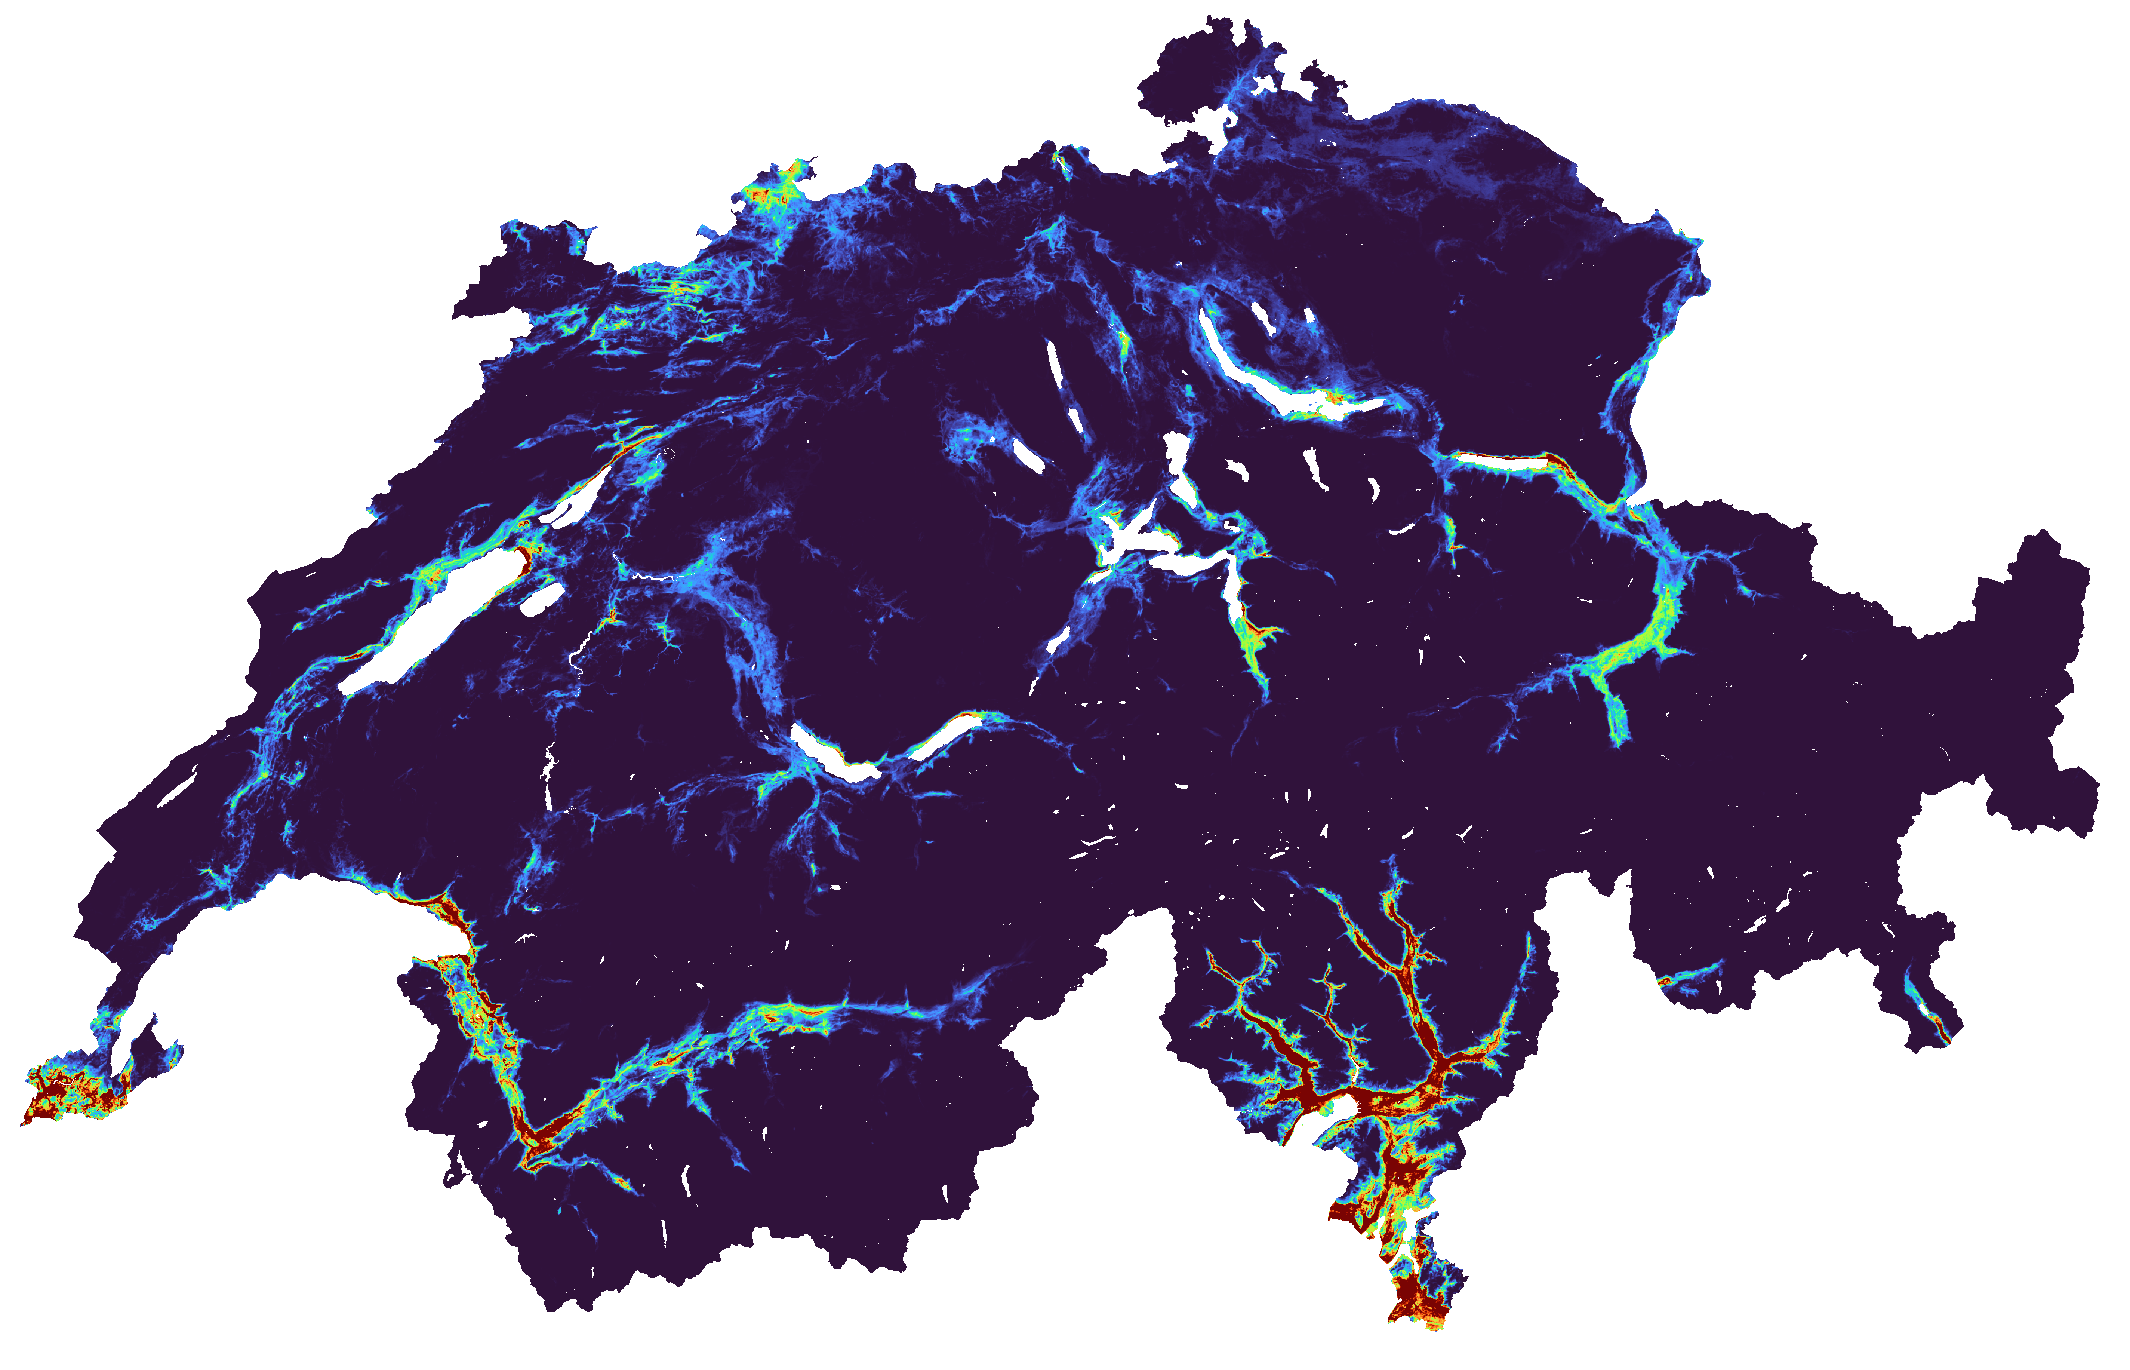
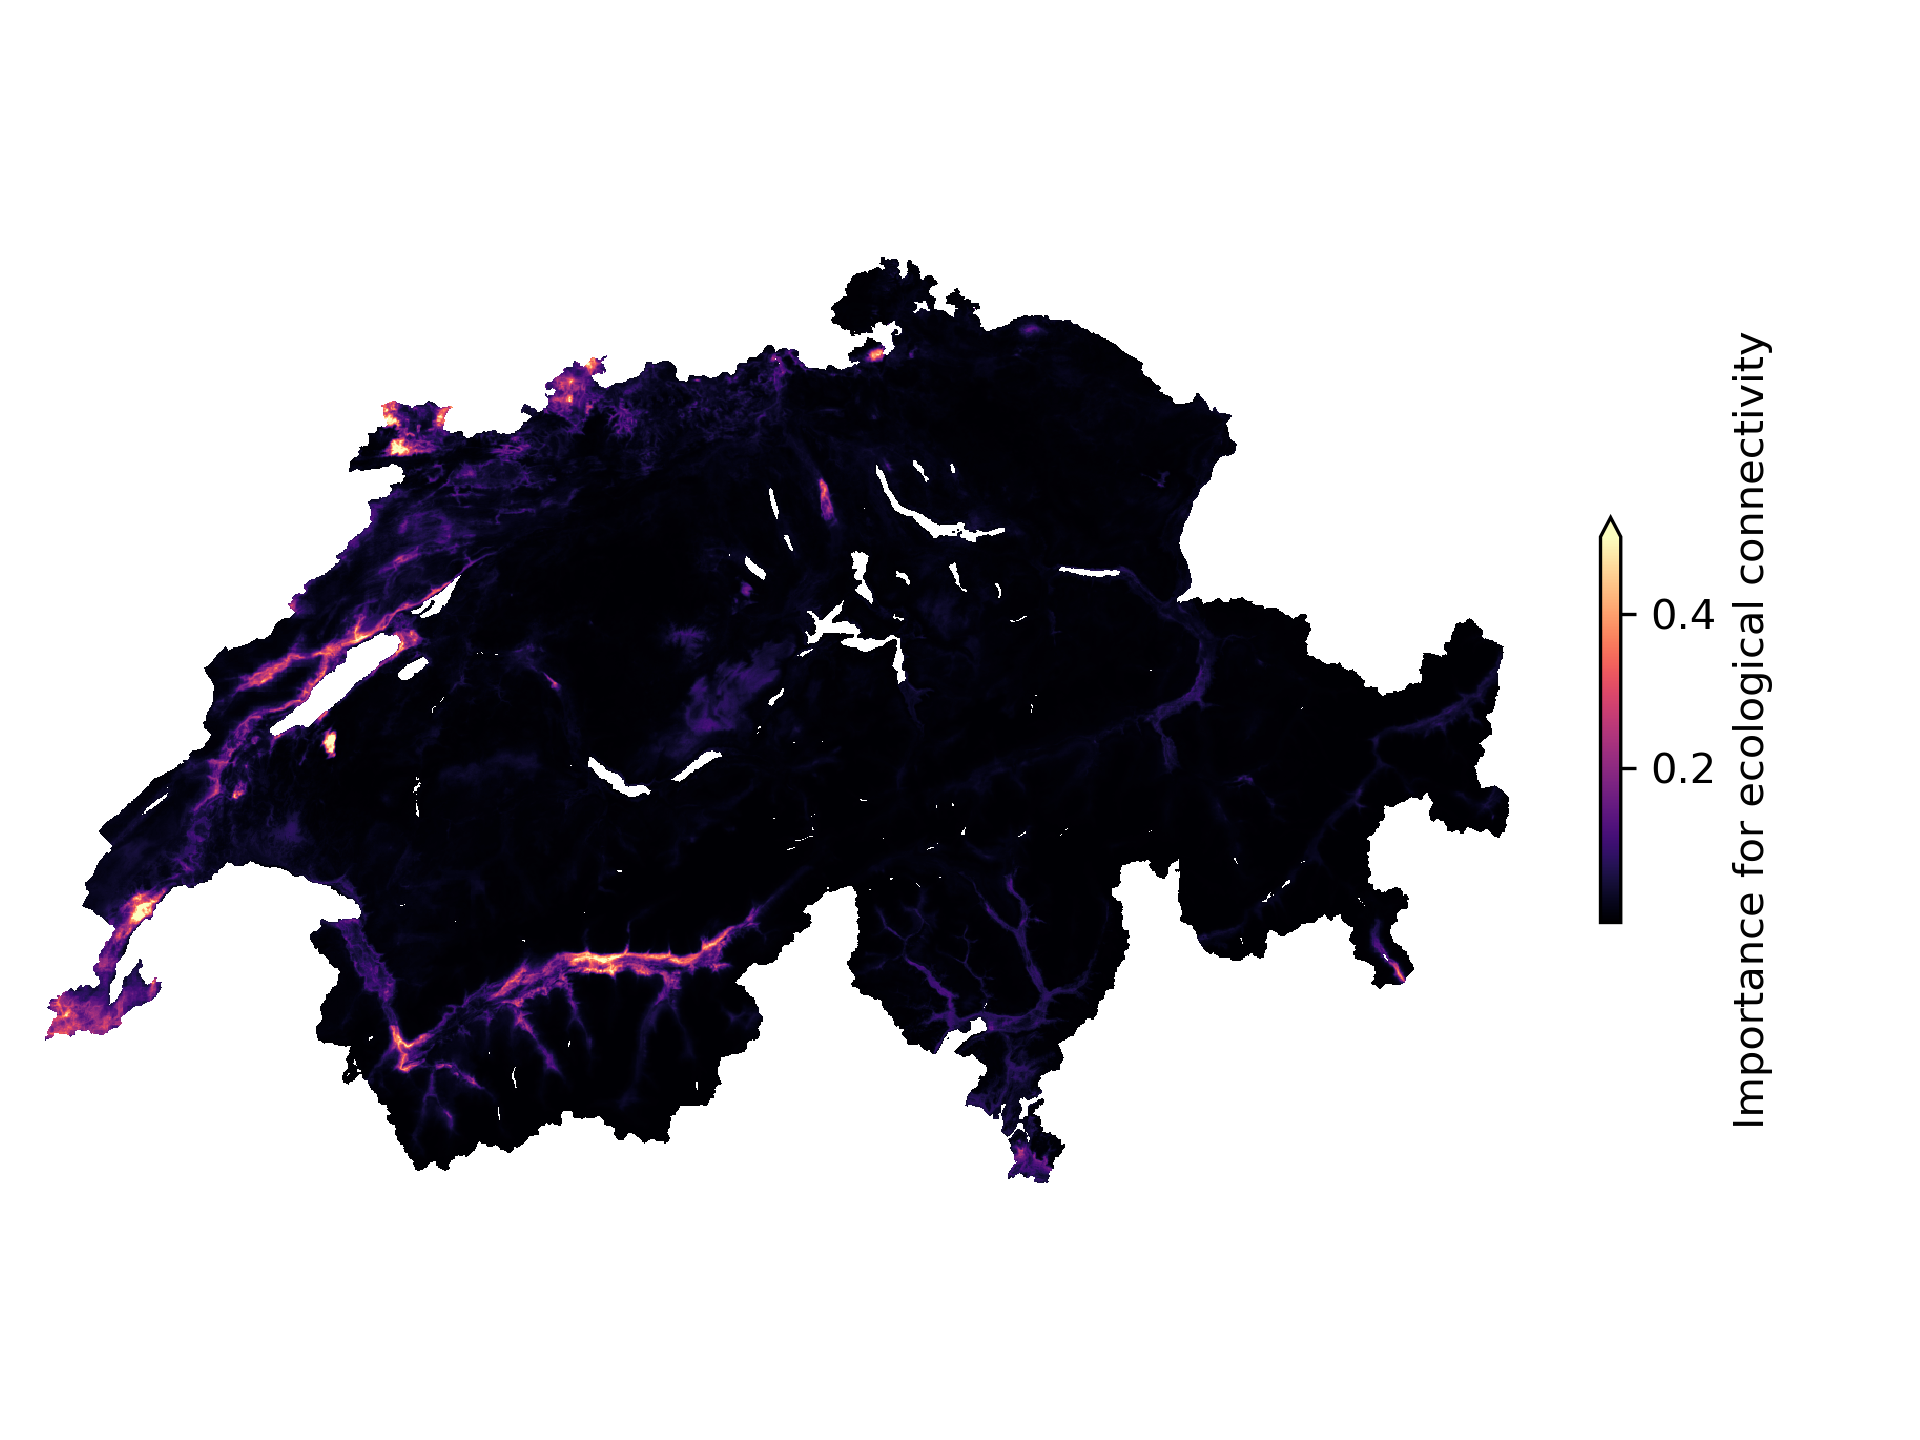
revised docu

diff --git a/python/biodiv_layer/group_summed_elasticities.py b/python/biodiv_layer/group_summed_elasticities.py
@@ -1,3 +1,10 @@
+# Calculate the overall group-summed elasticity for multiple taxonomic groups,
+# excluding fishes, based on per-group TIF files. The function reads and sums
+# "elasticity_quality" and optionally "elasticity_permeability" for each group,
+# averages them, and ultimately scales the final summed elasticity values from 0
+# to 1.
+
+
 import logging
 import sys
 from pathlib import Path
@@ -11,12 +18,20 @@ logger = logging.getLogger(__name__)
 
 import sys
 sys.path.append(str(Path(__file__).parent / Path("../src/")))
-from preprocessing import GROUP_INFO
+from group_preprocessing import GROUP_INFO
 
 def calculate_summed_elasticities(config, base_path):
+    """
+    Calculate the overall group-summed elasticity for multiple taxonomic groups, 
+    excluding fishes, based on per-group TIF files. The function reads and sums 
+    "elasticity_quality" and optionally "elasticity_permeability" for each group, 
+    averages them, and ultimately scales the final summed elasticity values from 0 to 1.
+    """
     summed_elasticity = None
 
     for group in GROUP_INFO:
+        if group == "Fishes":
+            continue
         logger.info("Processing group: %s", group)
         path_elasticities = base_path / config["hash"] / group
         tif_files = list(path_elasticities.glob("*.tif"))
@@ -51,12 +66,27 @@ def calculate_summed_elasticities(config, base_path):
 
     return summed_elasticity
 
-
 if __name__ == "__main__":
-    config = {"hash": "905c509"}
-    base_path = Path("results")
+    config = {"hash": "88a8982"}
+    base_path = Path(__file__).parent / Path("../../data/processed")
     summed_elasticity = calculate_summed_elasticities(config, base_path)
     # Save result
     out_file = base_path / config["hash"] / "elasticities_all.tif"
     logger.info("Saving final raster to: %s", out_file)
     summed_elasticity.rio.to_raster(out_file, compress="lzw")
+    if False:
+        import matplotlib.pyplot as plt
+        fig, ax = plt.subplots()
+        plot_data = summed_elasticity.coarsen(x=10, y=10, boundary="trim").mean()
+        plot_data.plot(
+            ax=ax,
+            vmax=0.5,
+            cmap="magma",
+            cbar_kwargs={"label": "Importance for ecological connectivity",
+                         "shrink": 0.3},
+        )
+        ax.set_aspect("equal")
+        ax.set_title("")
+        ax.set_axis_off()
+        # fig.tight_layout()
+        fig.savefig(Path(__file__).parent / "../../ecological_connectivity_importance.png", dpi=300)

diff --git a/python/src/group_preprocessing.py b/python/src/group_preprocessing.py
@@ -34,7 +34,7 @@ def compile_group_suitability(group, resolution):
     """
     Incrementally compute mean and std of the suitability rasters for all species in a taxonomic group.
     """
-    cache_path = Path(__file__).parent / Path(f"../../data/{group}/suitability_{resolution}m.nc")
+    cache_path = Path(__file__).parent / Path(f"../../data/raw/{group}/suitability_{resolution}m.nc")
     cache_path.parent.mkdir(parents=True, exist_ok=True)
     if cache_path.exists():
         concatenated = xr.open_dataset(cache_path)

diff --git a/python/biodiv_layer/group_elasticity_permeability.py b/python/biodiv_layer/group_elasticity_permeability.py
@@ -36,7 +36,7 @@ def run_elasticity_analysis_for_group(group, config):
     distance_fn = GROUP_INFO[group]
     if isinstance(distance_fn, EuclideanDistance):
         return
-    output_path = Path(__file__).parent / Path(f"results/{config['hash']}") / group
+    output_path = Path(__file__).parent / Path(f"../../data/processed/{config['hash']}") / group
     output_path.mkdir(parents=True, exist_ok=True)
 
     suitability_dataset = compile_group_suitability(group, config["resolution"])

diff --git a/python/biodiv_layer/group_elasticity_quality.py b/python/biodiv_layer/group_elasticity_quality.py
@@ -34,7 +34,7 @@ def run_elasticity_analysis_for_group(group, config):
     """
     distance_fn = GROUP_INFO[group]
 
-    output_path = Path(__file__).parent / Path(f"results/{config['hash']}") / group
+    output_path = Path(__file__).parent / Path(f"../../data/processed/{config['hash']}") / group
     output_path.mkdir(parents=True, exist_ok=True)
 
     suitability_dataset = compile_group_suitability(group, config["resolution"])

diff --git a/readme.md b/readme.md
@@ -31,12 +31,15 @@ conda env create --file environment.yml --prefix ./.env
 ```
 
 #### Input data
-The analysis depends on suitability maps for each taxonomic group considered. This data must be downloaded from [this Zenodo archive]() and placed under `data/`.
+
+The analysis depends on mean suitability maps for each taxonomic group considered. This data must be downloaded from [this Zenodo archive]() and placed under `data/raw`. The species maps from which the mean suitability maps have been derived, together with the mean dispersal range used for the calculation of ecological proximity, are stored in each `.nc` file attributes.
+
+Access to the individual species distribution maps used to generate the mean suitability maps for each taxonomic group, along with individual species dispersal range data, is restricted but may be considered upon request.
 
 ## File description
-The elasticities at the taxonomic group level are calculated with the `python/biodiv_layer/group_elasticity_*.py` scripts. They are aggregated with the script `group_summed_elasticities`.
-
-Utilities are placed in `src/`.
+- `python/biodiv_layer/group_elasticity_*.py`: Calculate (pemerability/quality) elasticities at the taxonomic group level. 
+- `group_summed_elasticities`: Aggregates elasticities to calculate the importance index for ecological connectivity.
+- `src/*`: Utility functions.
 
 ## Results
-Elasticity and the aggregated importance index maps are hosted under [this Zenodo archive]().
+Elasticity maps and the aggregated importance index map are placed under `data/processed/HASH/` and are hosted under [this Zenodo archive](). 
